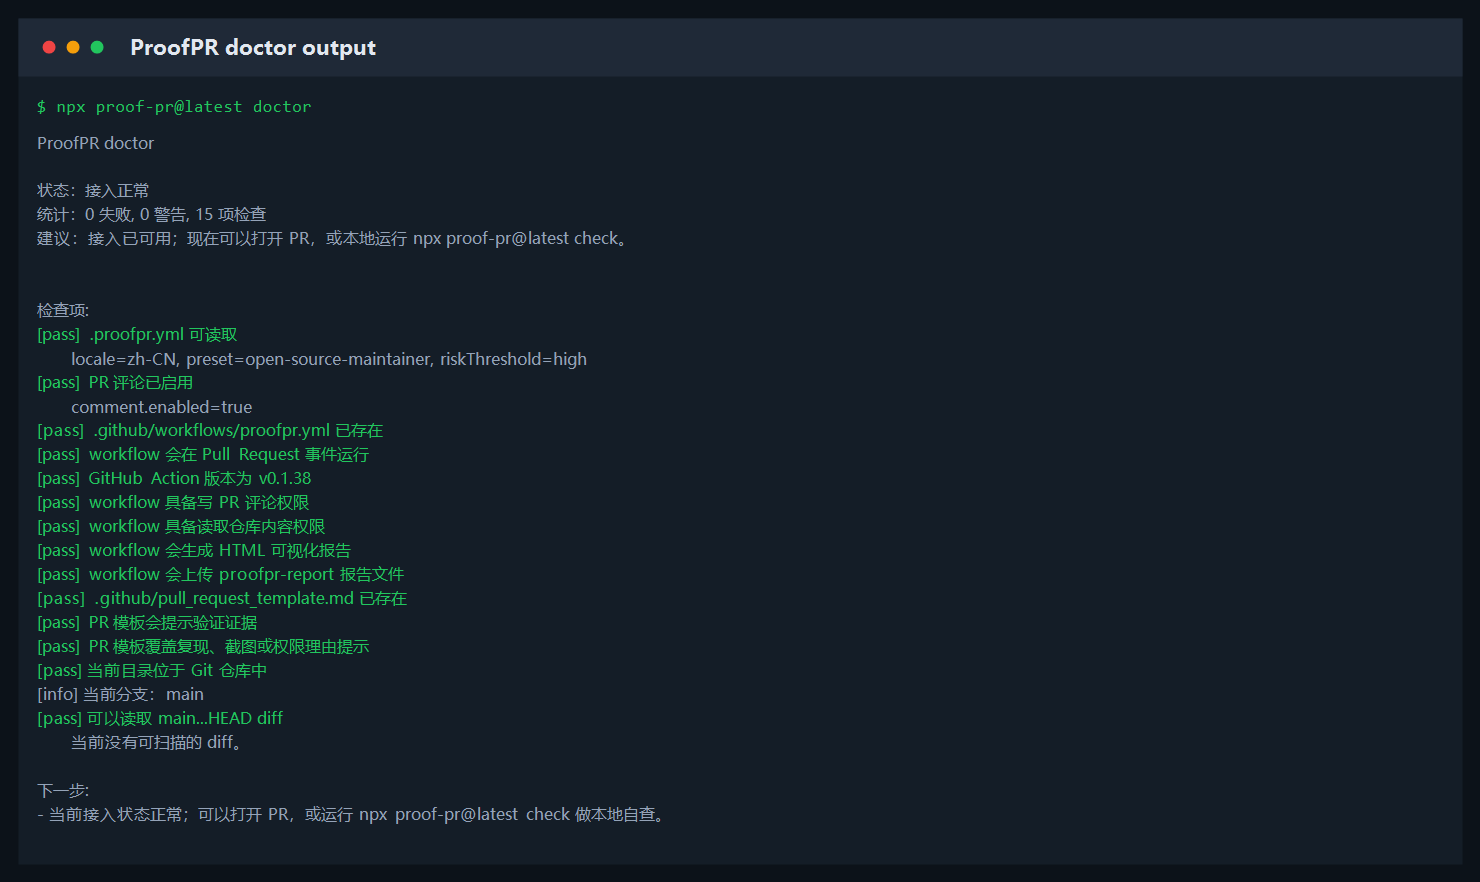
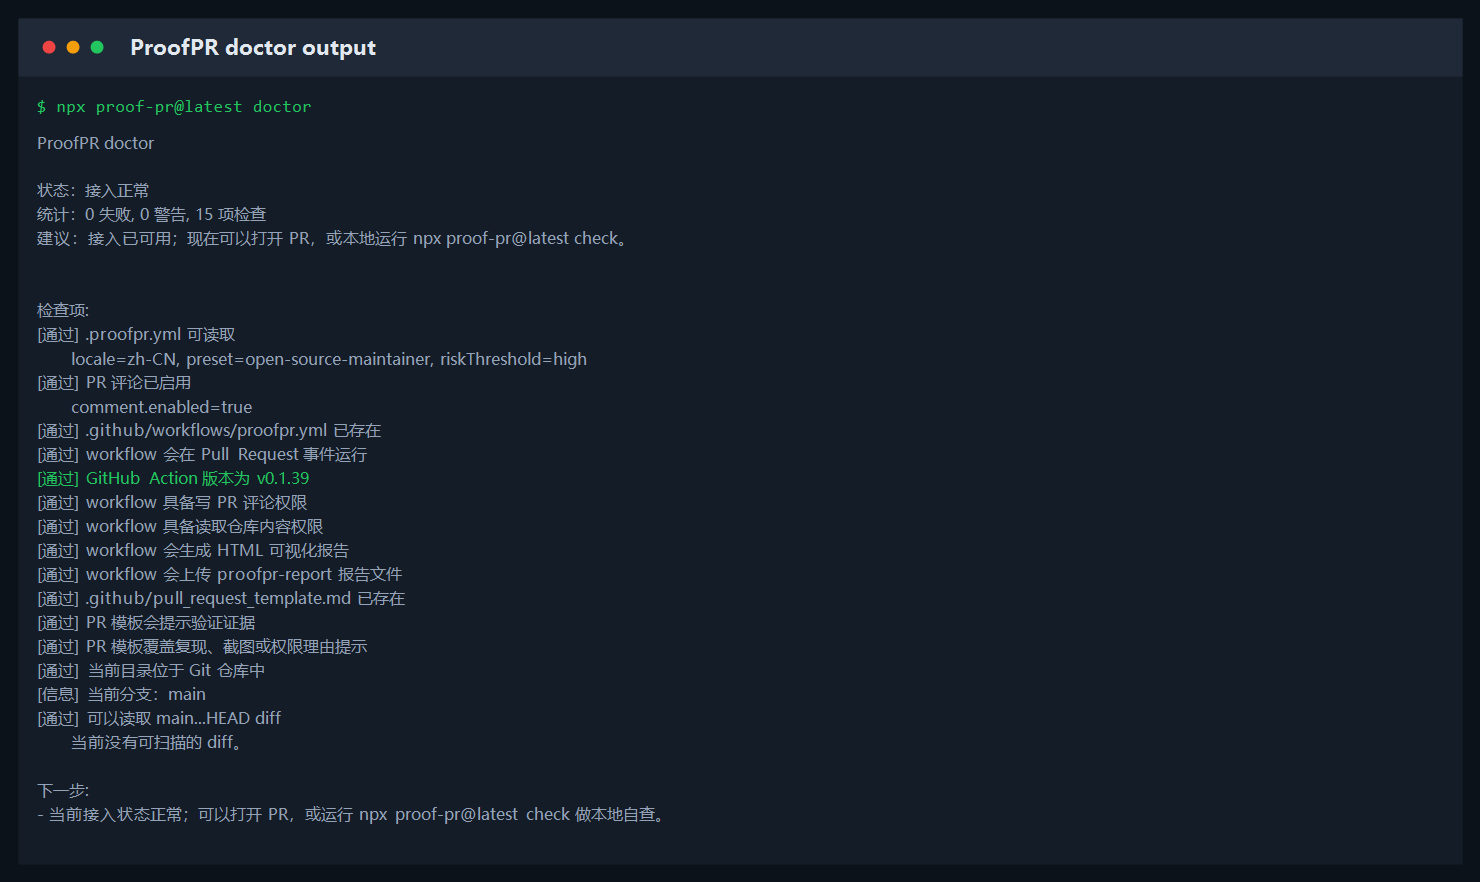
feat: localize doctor check statuses

Changed region(s): [[0.0311, 0.4286, 0.2797, 0.8265], [0.0311, 0.3673, 0.1554, 0.398]]

diff --git a/packages/cli/src/index.ts b/packages/cli/src/index.ts
@@ -23,7 +23,7 @@ import {
 } from "@proof-pr/core";
 
 const execFileAsync = promisify(execFile);
-const CLI_VERSION = "0.1.38";
+const CLI_VERSION = "0.1.39";
 
 type OutputFormat = "json" | "markdown" | "sarif" | "html";
 type FailLevel = RiskLevel | "never";
@@ -1055,6 +1055,12 @@ function renderDoctorReport(report: DoctorReport): string {
   const warnCount = report.checks.filter((check) => check.level === "warn").length;
   const status = failCount > 0 ? "需要先修复" : warnCount > 0 ? "基本可用，但建议优化" : "接入正常";
   const recommendation = renderDoctorRecommendation(report, failCount, warnCount);
+  const levelText: Record<DoctorLevel, string> = {
+    pass: "通过",
+    warn: "警告",
+    fail: "失败",
+    info: "信息"
+  };
   const fixes =
     report.fixes.length > 0
       ? `\n自动修复:\n${report.fixes.map((fix) => `- ${fix}`).join("\n")}\n`
@@ -1062,7 +1068,7 @@ function renderDoctorReport(report: DoctorReport): string {
   const checks = report.checks
     .map((check) => {
       const detail = check.detail ? `\n       ${check.detail}` : "";
-      return `[${check.level}] ${check.title}${detail}`;
+      return `[${levelText[check.level]}] ${check.title}${detail}`;
     })
     .join("\n");
   const nextSteps = report.nextSteps.map((step) => `- ${step}`).join("\n");

diff --git a/docs/release.md b/docs/release.md
@@ -1,6 +1,6 @@
 # 发布流程
 
-当前最新公开版本是 `0.1.38`。
+当前最新公开版本是 `0.1.39`。
 
 ## 发布前检查
 
@@ -52,8 +52,8 @@ npm 官方要求 trusted publishing 使用 npm 11.5.1+ 和 Node 22.14+；`npm tr
 确认 `pnpm release:check` 通过后：
 
 ```bash
-git tag v0.1.38
-git push origin v0.1.38
+git tag v0.1.39
+git push origin v0.1.39
 ```
 
 发布完成后需要检查：
@@ -66,9 +66,17 @@ npx proof-pr@latest --version
 当前验证结果：
 
 ```txt
-npm view proof-pr version -> 0.1.38
-npx proof-pr@latest --version -> 0.1.38
+npm view proof-pr version -> 0.1.39
+npx proof-pr@latest --version -> 0.1.39
 ```
+
+## `v0.1.39` 发布状态
+
+`v0.1.39` 是 doctor 检查项状态中文化版，重点包括：
+
+- `doctor` 检查项状态从 `[pass]`、`[warn]`、`[fail]`、`[info]` 改为中文。
+- 文档截图同步更新，首次体检输出更适合中文用户直接阅读。
+- 默认使用路径继续保持为 `init`、`doctor`、`check`、`request`。
 
 ## `v0.1.38` 发布状态
 
@@ -282,7 +290,7 @@ npx proof-pr@latest --version -> 0.1.38
 
 ## 版本说明
 
-`0.1.8` 已经发布到 npm，但 CLI `--version` 仍显示旧版本。`0.1.38` 继承了后续修复，并且是当前推荐使用版本。
+`0.1.8` 已经发布到 npm，但 CLI `--version` 仍显示旧版本。`0.1.39` 继承了后续修复，并且是当前推荐使用版本。
 
 ## 发布后动作
 

diff --git a/docs/roadmap.md b/docs/roadmap.md
@@ -31,7 +31,7 @@ ProofPR 的长期定位不是“又一个代码扫描器”，而是 **AI 时代
    代码侧材料已准备好，下一步需要仓库所有者在 GitHub 网页上确认发布。
 
 2. 发布链路稳定性
-   Trusted Publisher 已配置并通过 `v0.1.21` 到 `v0.1.38` 验证。后续重点是保持 release workflow 简单可审计，避免回退到本地 token 发布。
+   Trusted Publisher 已配置并通过 `v0.1.21` 到 `v0.1.39` 验证。后续重点是保持 release workflow 简单可审计，避免回退到本地 token 发布。
 
 3. 真实截图刷新
    用供应链增强规则重新跑一个 demo PR，补充新版依赖风险、HTML 报告和 benchmark 效果图。
@@ -62,4 +62,4 @@ ProofPR 的长期定位不是“又一个代码扫描器”，而是 **AI 时代
 
 ## 下一版优先级
 
-下一步优先用 `0.1.38` 的中文帮助、中文错误提示和更清晰的入口反馈更新真实 demo PR 截图、Marketplace 页面和从 0 到 1 教程，并继续准备 GitHub Marketplace 上架材料。
+下一步优先用 `0.1.39` 的中文帮助、中文错误提示和中文 doctor 状态更新真实 demo PR 截图、Marketplace 页面和从 0 到 1 教程，并继续准备 GitHub Marketplace 上架材料。

diff --git a/docs/README.md b/docs/README.md
@@ -17,8 +17,8 @@
 
 ## 当前发布
 
-- GitHub Release：[`v0.1.38`](https://github.com/linsk27/proof-pr/releases/tag/v0.1.38)
-- npm：[`proof-pr@0.1.38`](https://www.npmjs.com/package/proof-pr)
+- GitHub Release：[`v0.1.39`](https://github.com/linsk27/proof-pr/releases/tag/v0.1.39)
+- npm：[`proof-pr@0.1.39`](https://www.npmjs.com/package/proof-pr)
 - 核心能力：判断 PR 是否值得 review、指出缺失证据、标出高风险改动区域，并生成维护者行动清单。
 - 辅助能力：HTML 报告、GitHub annotations、SARIF、benchmark、真实案例库和 npm Trusted Publishing 发布流程。
 
@@ -29,7 +29,7 @@ npm view proof-pr version
 npx proof-pr@latest --version
 ```
 
-当前都应输出 `0.1.38`。
+当前都应输出 `0.1.39`。
 
 不知道怎么开始时：
 

diff --git a/docs/getting-started.md b/docs/getting-started.md
@@ -76,7 +76,7 @@ jobs:
     runs-on: ubuntu-latest
     steps:
       - uses: actions/checkout@v4
-      - uses: linsk27/proof-pr@v0.1.38
+      - uses: linsk27/proof-pr@v0.1.39
         with:
           fail-on: high
           comment: "true"
@@ -147,7 +147,7 @@ npx proof-pr@latest request
 
 `check` 会自动选择常见主分支作为 base，并纳入已提交分支 diff、staged、unstaged 和未跟踪新文件。当前没有可扫描 diff 时，它只输出短提示和下一步建议。
 
-如果第一行输出 `0.1.38`，说明你正在使用当前最新发布版。
+如果第一行输出 `0.1.39`，说明你正在使用当前最新发布版。
 
 也可以全局安装：
 

diff --git a/docs/commands.md b/docs/commands.md
@@ -120,7 +120,7 @@ npx proof-pr@latest doctor
 - `.github/workflows/proofpr.yml` 是否存在。
 - `.github/pull_request_template.md` 是否存在，以及是否提示验证、复现、截图或权限理由。
 - workflow 是否监听 `pull_request`。
-- workflow 是否使用当前推荐的 `linsk27/proof-pr@v0.1.38`。
+- workflow 是否使用当前推荐的 `linsk27/proof-pr@v0.1.39`。
 - 是否具备 `pull-requests: write` 和 `contents: read` 权限。
 - 是否启用了 `html-output` 和 `actions/upload-artifact`，方便下载 HTML 可视化报告。
 - 当前目录是否在 Git 仓库里，以及自动识别出的 base...HEAD diff 是否可读。

diff --git a/docs/zero-to-one.md b/docs/zero-to-one.md
@@ -149,7 +149,7 @@ npx proof-pr@latest check
 
 `check` 会自动选择常见主分支作为 base，并纳入已提交分支 diff、staged、unstaged 和未跟踪新文件。当前没有可扫描 diff 时，它只输出短提示和下一步建议。
 
-第一行当前应输出 `0.1.38`，用于确认 npm latest 已经安装正确。
+第一行当前应输出 `0.1.39`，用于确认 npm latest 已经安装正确。
 
 扫描内置案例：
 
@@ -201,7 +201,7 @@ permissions:
 
 steps:
   - uses: actions/checkout@v4
-  - uses: linsk27/proof-pr@v0.1.38
+  - uses: linsk27/proof-pr@v0.1.39
     with:
       fail-on: high
       comment: "true"

diff --git a/CHANGELOG.md b/CHANGELOG.md
@@ -4,6 +4,12 @@
 
 暂无。
 
+## 0.1.39 - 2026-05-18
+
+- `doctor` 检查项状态从 `[pass]`、`[warn]`、`[fail]`、`[info]` 改为中文。
+- 文档截图同步更新，首次体检输出更适合中文用户直接阅读。
+- 默认使用路径继续保持为 `init`、`doctor`、`check`、`request`。
+
 ## 0.1.38 - 2026-05-18
 
 - `doctor` 统计从 `fail/warn` 改为中文“失败/警告”。

diff --git a/docs/sarif-code-scanning.md b/docs/sarif-code-scanning.md
@@ -59,7 +59,7 @@ jobs:
     runs-on: ubuntu-latest
     steps:
       - uses: actions/checkout@v4
-      - uses: linsk27/proof-pr@v0.1.38
+      - uses: linsk27/proof-pr@v0.1.39
         with:
           fail-on: high
           comment: "true"
